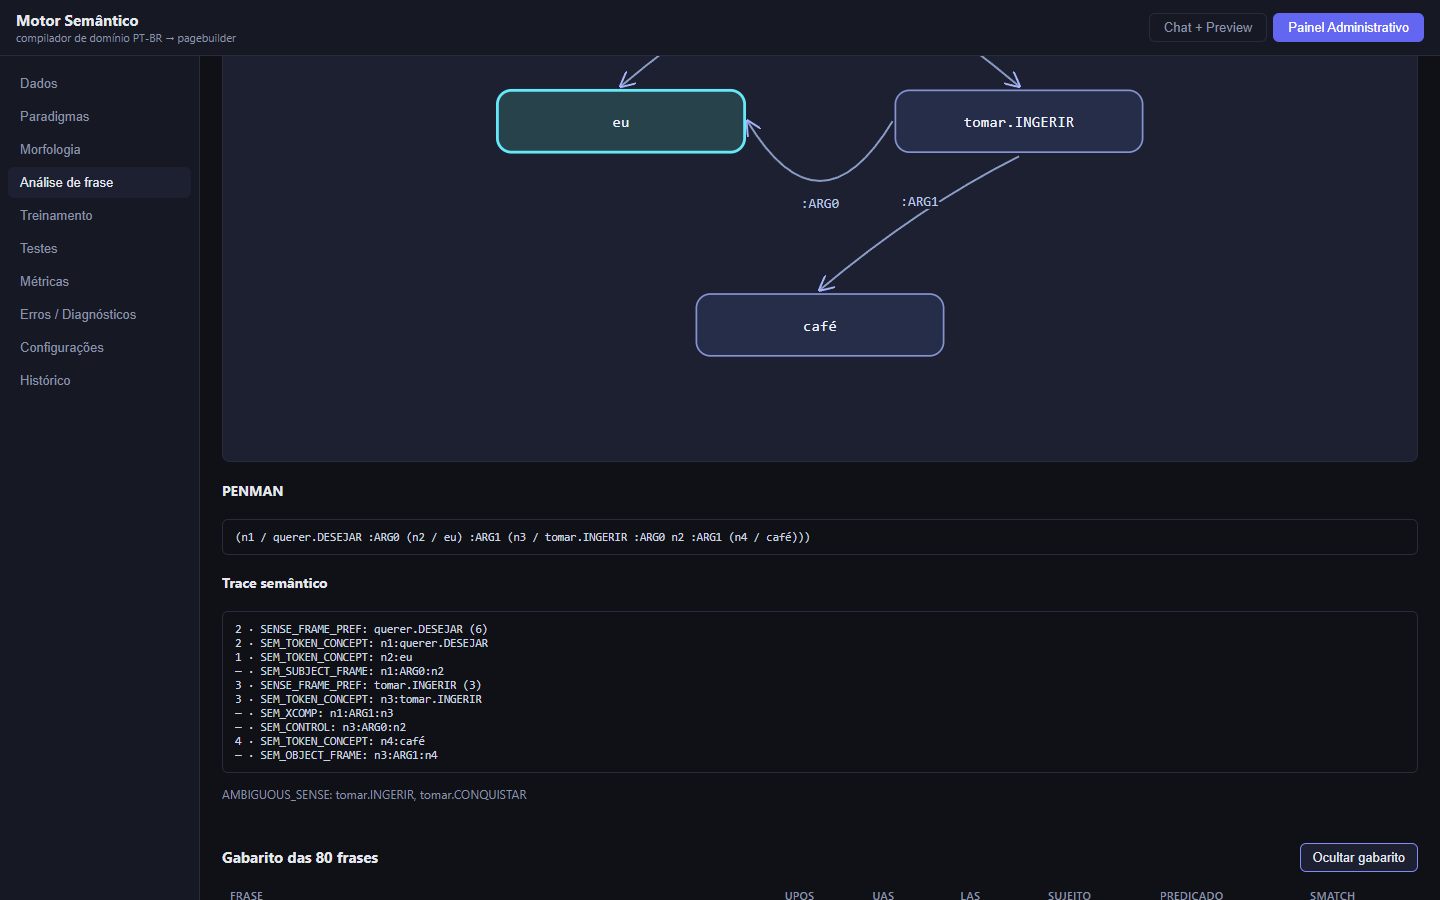
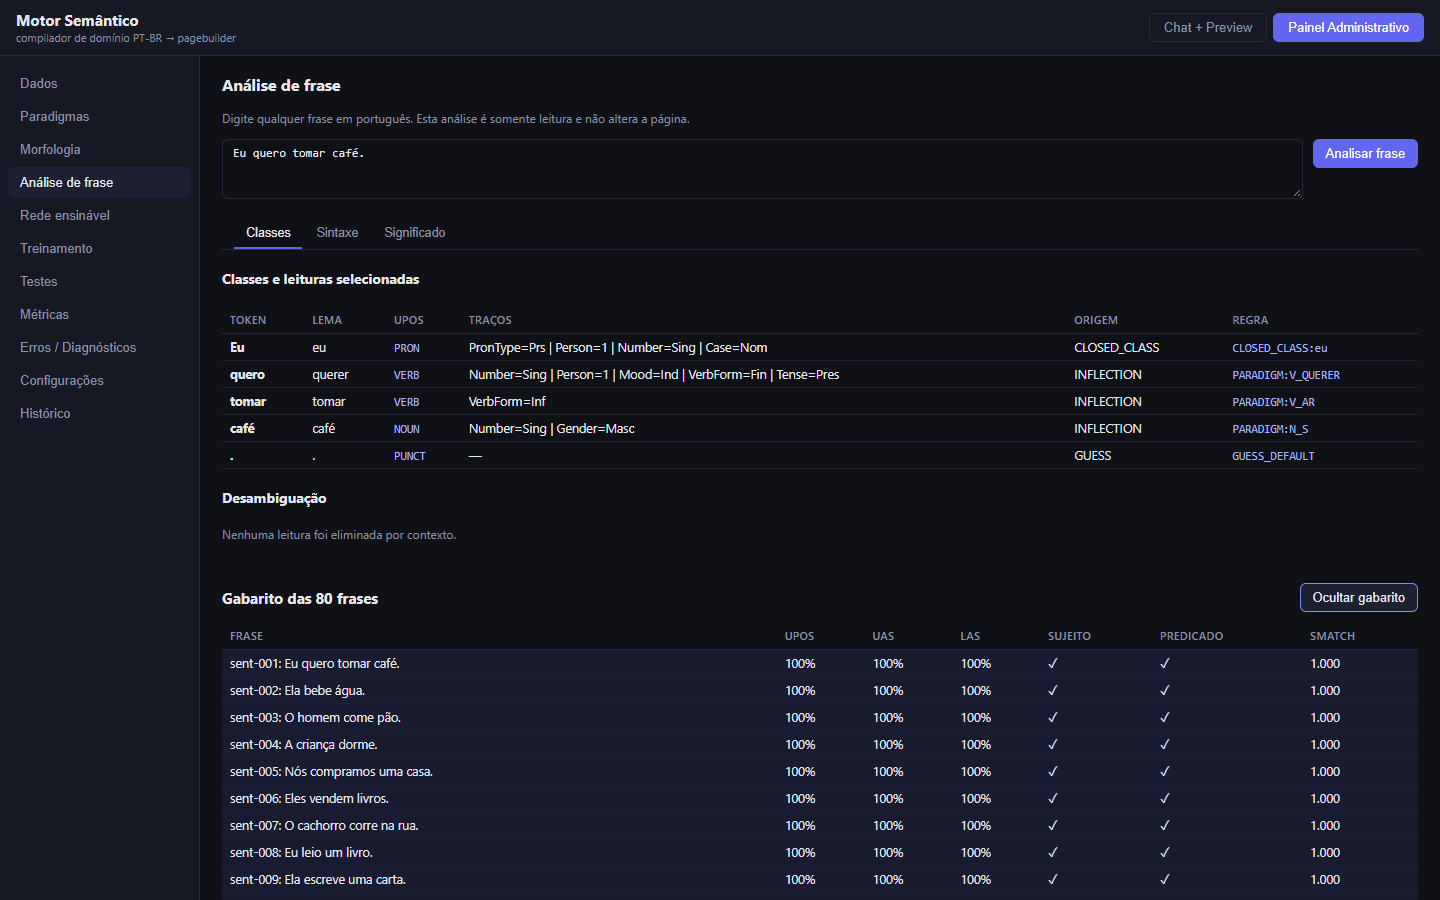
Consolida relatório e convenções UD verificadas

diff --git a/src/engine/language/DependencyParser.ts b/src/engine/language/DependencyParser.ts
@@ -142,7 +142,8 @@ export class DependencyParser {
         arcs[candidate].head === clause + 1 && arcs[candidate].deprel === 'mark' ||
         arcs[clause].deprel === 'acl:relcl' && feat(candidate, 'PronType') === 'Rel'
       );
-      const start = clause === root && comma >= 0 && root > comma ? comma + 1 : clause === root ? 0 : markerForClause >= 0 ? markerForClause + 1 : 0;
+      const initialSubordinate = comma > 0 && (pos(0) === 'SCONJ' || pos(0) === 'ADV');
+      const start = clause === root && initialSubordinate && root > comma ? comma + 1 : clause === root ? 0 : markerForClause >= 0 ? markerForClause + 1 : 0;
       const end = clause === root && comma < 0 ? words.length : clause === root ? words.length : Math.min(words.length, nearestRight(clause, (candidate) => pos(candidate) === 'PUNCT') + 1 || words.length);
       const before = [] as number[];
       for (let i = start; i < head; i++) {
@@ -150,8 +151,17 @@ export class DependencyParser {
         if (nearestLeft(i, (candidate) => pos(candidate) === 'ADP' && arcs[candidate].head === i + 1) >= 0) continue;
         before.push(i);
       }
+      const agreementHead = isFinite(head) ? head : copula ?? head;
+      const finiteFeats = words[agreementHead]?.selected.feats ?? {};
+      const agreement = (candidate: number): number => {
+        const candidateFeats = words[candidate].selected.feats;
+        const person = candidateFeats.Person ?? (nominals.has(pos(candidate)) ? '3' : undefined);
+        const number = candidateFeats.Number;
+        return (finiteFeats.Person && person ? (finiteFeats.Person === person ? 2 : -2) : 0) +
+          (finiteFeats.Number && number ? (finiteFeats.Number === number ? 1 : -1) : 0);
+      };
       const question = words.some((word) => word.form === '?');
-      const subject = before.length ? before[before.length - 1]
+      const subject = before.length ? [...before].sort((a, b) => agreement(b) - agreement(a) || b - a)[0]
         : question && clause === root ? nearestRight(head, (candidate) => candidate < end && nominals.has(pos(candidate)) && !assigned(candidate))
           : -1;
       if (subject !== undefined && subject >= 0 && subject < end && subject !== root) set(subject, head, 'nsubj', 'UD_NSUBJ_AGREEMENT');

diff --git a/src/engine/language/Tagger.ts b/src/engine/language/Tagger.ts
@@ -1,4 +1,5 @@
 import rulesData from '../../knowledge/language/pos-rules.json';
+import copulaData from '../../knowledge/language/copulas.json';
 import { LexicalAnalyzer, type LexicalReading } from './LexicalAnalyzer';
 
 interface Constraint {
@@ -17,7 +18,7 @@ interface Rule {
   id: string;
   action: 'SELECT' | 'REMOVE';
   form?: string;
-  target: { upos: string; feats?: Record<string, string> };
+  target: { upos: string; feats?: Record<string, string>; lemmaClass?: string };
   context: Constraint[];
   note: string;
   example: string;
@@ -41,9 +42,12 @@ export interface TaggingResult {
 }
 
 const rules = (rulesData as unknown as { rules: Rule[] }).rules;
+const copulas = new Set((copulaData as { lemmas: string[] }).lemmas);
 
-function readingMatches(reading: LexicalReading, target: { upos: string; feats?: Record<string, string> }): boolean {
-  return reading.upos === target.upos && Object.entries(target.feats ?? {}).every(([key, value]) => reading.feats[key] === value);
+function readingMatches(reading: LexicalReading, target: { upos: string; feats?: Record<string, string>; lemmaClass?: string }): boolean {
+  return reading.upos === target.upos &&
+    (!target.lemmaClass || target.lemmaClass === 'COPULA' && copulas.has(reading.lemma)) &&
+    Object.entries(target.feats ?? {}).every(([key, value]) => reading.feats[key] === value);
 }
 
 function contextMatches(words: TaggedWord[], index: number, condition: Constraint): boolean {

diff --git a/src/ui/components/SentenceAnalysisViews.tsx b/src/ui/components/SentenceAnalysisViews.tsx
@@ -5,6 +5,7 @@ export type SentenceView = 'classes' | 'syntax' | 'meaning';
 
 const modeLabel = { declarative: 'declarativa', interrogative: 'interrogativa', imperative: 'imperativa' };
 const polarityLabel = { positive: 'positiva', negative: 'negativa' };
+const diagnosticLabel: Record<string, string> = { AMBIGUOUS_SENSE: 'Sentido ambíguo', UNCERTAIN_FRAME: 'Moldura genérica, análise incerta' };
 
 interface Props {
   analysis: SentenceAnalysis;
@@ -139,7 +140,7 @@ export function SentenceAnalysisViews({ analysis, view }: Props) {
       <MeaningDiagram analysis={analysis} />
       <h4>PENMAN</h4><pre className="code-block">{analysis.meaningGraph.penman}</pre>
       <h4>Trace semântico</h4><pre className="code-block">{analysis.meaningGraph.trace.map((event) => `${event.token ?? '—'} · ${event.rule}: ${event.detail}`).join('\n')}</pre>
-      {analysis.meaningGraph.diagnostics.map((diagnostic, index) => <p key={index} className="note">{diagnostic.code}: {diagnostic.alternatives.join(', ')}</p>)}
+      {analysis.meaningGraph.diagnostics.map((diagnostic, index) => <p key={index} className="note">{diagnosticLabel[diagnostic.code] ?? diagnostic.code}: {diagnostic.alternatives.join(', ')}</p>)}
     </div>
   );
 }

diff --git a/src/engine/language/MeaningGraphBuilder.ts b/src/engine/language/MeaningGraphBuilder.ts
@@ -138,6 +138,7 @@ export class MeaningGraphBuilder {
         return { frame, score, order: seedOrder.indexOf(frame.id) >= 0 ? seedOrder.indexOf(frame.id) : order + seedOrder.length };
       }).sort((a, b) => b.score - a.score || a.order - b.order);
       if (scored.length > 1 && scored[0].score === scored[1].score) diagnostics.push({ code: 'AMBIGUOUS_SENSE', alternatives: scored.filter((item) => item.score === scored[0].score).map((item) => item.frame.id) });
+      if (scored[0].frame.defaultTemplate) diagnostics.push({ code: 'UNCERTAIN_FRAME', alternatives: [scored[0].frame.id] });
       trace.push({ rule: 'SENSE_FRAME_PREF', token: index + 1, detail: `${scored[0].frame.id} (${scored[0].score})` });
       return scored[0].frame;
     };

diff --git a/tests/language-tagger.test.ts b/tests/language-tagger.test.ts
@@ -33,6 +33,11 @@ function measure(tagger: LanguageTagger, sentences: Sentence[]) {
 describe('desambiguação de classe por regras', () => {
   const tagger = new LanguageTagger();
 
+  it('seleciona AUX para cópula e auxiliar diante de infinitivo', () => {
+    expect(tagger.tagForms(['A', 'casa', 'é', 'grande', '.']).words[2].selected.upos).toBe('AUX');
+    expect(tagger.tagForms(['Nós', 'vamos', 'viajar', '.']).words[1].selected.upos).toBe('AUX');
+  });
+
   it('atinge 97% de UPOS nas 80 frases do projeto', () => {
     const result = measure(tagger, goldSentences);
     console.info('UPOS gabarito', result.hits, '/', result.total, 'falhas:', result.failures.join(', '));

diff --git a/tests/language-dependencies.test.ts b/tests/language-dependencies.test.ts
@@ -63,6 +63,13 @@ describe('dependências UD e estrutura da oração', () => {
     }
   });
 
+  it('usa concordância para escolher sujeito em objeto anteposto', () => {
+    const sentence = 'Eu, a casa comprei.';
+    const analysis = new SemanticEngine(createInitialKnowledgeBase()).analyzeSentence(sentence);
+    expect(analysis.clause.subject).toEqual([1]);
+    expect(analysis.dependencies[3].deprel).toBe('obj');
+  });
+
   it('atinge UAS, LAS, sujeito e predicado no gabarito', () => {
     const m = measure((gold as { sentences: Sentence[] }).sentences);
     expect(m.uas).toBeGreaterThanOrEqual(0.90);

diff --git a/index.html b/index.html
@@ -3,6 +3,7 @@
   <head>
     <meta charset="UTF-8" />
     <meta name="viewport" content="width=device-width, initial-scale=1.0" />
+    <link rel="icon" type="image/svg+xml" href="/favicon.svg" />
     <title>Motor Semântico — Pagebuilder</title>
   </head>
   <body>

diff --git a/RELATORIO_SINTAXE.md b/RELATORIO_SINTAXE.md
@@ -1,0 +1,78 @@
+# Análise geral de frases do português
+
+## Estado da entrega
+
+Implementação na branch `codex/sintaxe-significado`, iniciada em `591733f` (`claude/morfologia-integrada`). A camada geral é somente leitura e não substitui o compilador de comandos do construtor. O exemplo **“Eu quero tomar café.”** produz `eu/PRON`, `quero/querer/VERB`, `tomar/tomar/VERB`, `café/café/NOUN`; sujeito `[1]`; núcleo do predicado `[2,3]`; predicado completo “quero tomar café”; e o mesmo nó `eu` em `:ARG0` de `querer.DESEJAR` e de `tomar.INGERIR`.
+
+Linha de base antes das edições: `npm test` → **30 arquivos, 413 testes aprovados**. A última verificação completa está documentada abaixo. Os commits `TEST-EXPECTATION` foram deliberadamente vermelhos, conforme a escolha do solicitante; os commits de implementação foram verificados em verde. Nenhum gabarito antigo foi alterado. As correções de expectativas novas estão justificadas em [CHANGES.md](research/morfologia/CHANGES.md).
+
+## Fontes e decisões
+
+| Fonte consultada | Decisão sustentada | Aplicação |
+|---|---|---|
+| [UD: classes UPOS](https://universaldependencies.org/u/pos/index.html), [traços](https://universaldependencies.org/u/feat/index.html) | Inventário `PRON`, `DET`, `ADP`, `AUX` etc. e traços como `Person`, `Number`, `Mood`, `VerbForm`. | `closed-class.json`, `LanguageInflector.ts`, `LexicalAnalyzer.ts`, `Tagger.ts`. |
+| [UD: relações](https://universaldependencies.org/u/dep/index.html), [cópula](https://universaldependencies.org/u/dep/cop.html), [xcomp](https://universaldependencies.org/u/dep/xcomp.html), [ccomp](https://universaldependencies.org/u/dep/ccomp.html), [nsubj](https://universaldependencies.org/u/dep/nsubj.html), [case](https://universaldependencies.org/u/dep/case.html) | Predicativo como raiz de oração copular; `xcomp` com controle obrigatório; complemento com sujeito próprio como `ccomp`; preposição dependente do nome. | `DependencyParser.ts`, `ClauseAnalyzer.ts`. Cópulas e auxiliares em contexto recebem `AUX`, embora o gabarito local os chame de `VERB`. |
+| [CoNLL-U](https://universaldependencies.org/format.html), [UD português](https://universaldependencies.org/pt/index.html), [Bosque](https://universaldependencies.org/treebanks/pt_bosque/), [PUD](https://universaldependencies.org/treebanks/pt_pud/) | Dez colunas e linha de faixa para contração; convenções portuguesas de artigos, contrações e clíticos. A forma feminina do artigo tem lema `o` no [Bosque](https://universaldependencies.org/treebanks/pt_bosque/pt_bosque-pos-DET.html). | `Tokenizer.ts`, `Conllu.ts`, `closed-class.json`, `contractions.json`. Bosque e PUD foram consultados, não copiados. |
+| [Manual CG-3](https://edu.visl.dk/cg3/chunked/), [tutorial CG-3](https://edu.visl.dk/cg3_howto.pdf) | Coortes com múltiplas leituras e regras contextuais ordenadas `SELECT`/`REMOVE`. | `Tagger.ts`, `pos-rules.json`; cada remoção registra o ID da regra. |
+| [Diretrizes AMR](https://github.com/amrisi/amr-guidelines/blob/master/amr.md), [AMR-PT](https://aclanthology.org/W19-4028/) | Papéis `ARG*`, controle como reentrância, polaridade, perguntas e adaptação de conceitos ao português. | `MeaningGraphBuilder.ts`, `adjunct-roles.json`, `implicit-pronouns.json`. |
+| [Smatch](https://pypi.org/project/smatch/1.0.2/), [avaliação amrlib](https://amrlib.readthedocs.io/en/latest/evaluation/) | F1 de triplas de instância, relação e atributo com mapeamento de variáveis. | `graphMatch.ts` usa busca exata e determinística; não usa subida de encosta aleatória. |
+| [PropBank-Br](https://aclanthology.org/L12-1114/), [VerbNet.Br](https://aclanthology.org/W11-4503/) | Referência conceitual para papéis e molduras verbais. | Os papéis são lidos apenas das molduras próprias do projeto; nenhum dado dessas bases foi importado. |
+| [Alomorfia em adjetivos `-vel`](https://www.scielo.br/j/alfa/a/KBB8JSXYhkf3Wb6sXcbG9XJ/), [formação de palavras](https://www.scielo.br/j/delta/a/7TDJXwhYDpNRkXLYWhvnbnB/) | Alternâncias de radical e derivação por regras, com a ressalva de que certas ligações são históricas e não produtivas no português sincrônico. | `stem-rules.json` separa radical do sufixo. As alternâncias específicas além de `vis-` vieram dos exemplos fornecidos pelo solicitante e ainda pedem verificação etimológica individual. |
+
+## Arquitetura e comportamento
+
+`SemanticEngine.analyzeSentence(text)` monta `Tokenizer → LexicalAnalyzer → Tagger → DependencyParser → ClauseAnalyzer → MeaningGraphBuilder`. A saída inclui leituras alternativas, escolha, traços, origem, regra, árvore UD, sujeito, dois recortes do predicado, modo, polaridade, CoNLL-U, nós/arestas, PENMAN e trace. O método não executa nem altera o documento. `DomainParser` não foi reescrito.
+
+O parser usa **montagem determinística por padrões**: seleciona núcleo verbal ou predicativo, associa determinantes, casos, coordenação e orações, depois sujeitos, objetos e adjuntos. A escolha do sujeito combina posição com concordância de pessoa e número; um teste com objeto anteposto (“Eu, a casa comprei.”) verifica que o verbo de 1ª pessoa seleciona “Eu”. A relação é registrada com o ID da regra que criou o arco. Molduras do projeto orientam os papéis semânticos; molduras `defaultTemplate` geram diagnóstico de incerteza. Essa escolha é compatível com as relações da UD citadas acima, embora construções ambíguas mais longas continuem abertas.
+
+Definição operacional observada no gabarito: **predicado (núcleo)** é o verbo finito principal e sua cadeia `xcomp` ou verbo coordenado; em oração copular, é a cópula finita, embora o predicativo seja a raiz UD. Exemplo: `sent-001` usa `[2,3]` e `sent-021` usa `[3]`. **Predicado completo** é a subárvore da raiz sem a subárvore do sujeito e sem pontuação.
+
+Os dados de classes fechadas, contrações, regras CG, alternâncias e papéis ficam em JSON. `src/` não contém dicionário, treebank nem molduras externas. Os 24 paradigmas propostos e 31 verbos irregulares copiados para `src/knowledge/language/` já pertenciam a `research/morfologia/` deste projeto. A base ensinável usa formato de dados **v3**: uma raiz nova traz paradigma, regra de atribuição, glosa, tipo e moldura copiada de um modelo do próprio projeto.
+
+## Números medidos
+
+As 80 frases do gabarito contêm 431 tokens para UPOS e dependências; as 20 extras, 78. A métrica lexical exclui pontuação (348 e 58 tokens). Os traços são medidos onde foram anotados (294 e 58 tokens).
+
+| Métrica | Gabarito (80) | Extras (20) |
+|---|---:|---:|
+| Lema entre as candidatas | 348/348 (100%) | 58/58 (100%) |
+| Traços entre as candidatas | 293/294 (99,66%) | 58/58 (100%) |
+| Lema **e** traços na mesma leitura | 347/348 (99,71%) | 58/58 (100%) |
+| UPOS selecionado | 419/431 (97,22%) | 77/78 (98,72%) |
+| UAS | 431/431 (100%) | 78/78 (100%) |
+| LAS | 431/431 (100%) | 78/78 (100%) |
+| Sujeito exato | 80/80 (100%) | 20/20 (100%) |
+| Predicado núcleo exato | 80/80 (100%) | 20/20 (100%) |
+| Smatch F1 médio | 0,9401 | 0,9029 |
+| Grafo exato (F1 = 1) | 62/80 (77,5%) | 12/20 (60%) |
+| Sentido esperado presente | 74/80 (92,5%) | 19/20 (95%) |
+
+Fase 1: os três casos de ruído, as dez palavras de radical latino fora dos dados e os dois comandos de domínio passaram. Fase 2: 40 formas de classe fechada, seis contrações e os demais casos somam 49 testes aprovados. Fase 3: **258/258** casos de flexão. Fase 4: os limiares de UPOS foram atingidos. Fase 5: os limiares de UAS, LAS, sujeito e predicado foram atingidos. Fase 6: os três limiares de grafo foram atingidos **no gabarito**; nas extras, grafos exatos ficaram em 60%, sem limiar exigido nessa fase. Fase 8: `surfar` gerou 53 formas e 11 hipóteses derivacionais na vista de rede; `surfista` aparece como `AGENT_OF(surfar)`.
+
+## Falhas restantes e causas
+
+- **Classe:** 12 tokens do gabarito (`sent-015`, `020`–`023`, `030`, `041`, `067`–`069`, `072`, `080`) e um das extras (`extra-019`) divergem porque a implementação marca cópula ou auxiliar como `AUX` conforme UD, enquanto os dados locais registram `VERB`. A árvore e o grafo desses casos continuam sendo avaliados. Não alterei o gabarito para aumentar a métrica.
+- **Traços:** em `sent-079`, “ajuda” não tem, entre as leituras lexicais, a combinação `Mood=Imp|Person=3` do gabarito; o paradigma regular oferece 3ª pessoa do indicativo e 2ª do imperativo. O modo imperativo da oração é inferido estruturalmente.
+- **Dependências, sujeito e predicado:** nenhuma divergência nos 80 casos e nas 20 extras medidos. Esse resultado não demonstra cobertura de todas as construções do português.
+- **Grafo no gabarito, 18 não exatos:** `sent-034`, `035`, `050`, `052`, `057`, `060`–`062`, `064`–`069`, `073`–`075`, `077`. Seis têm sentido diferente (`034`, `035`, `050`, `061`, `064`, `073`). Causas principais: seleção entre sentidos ainda ambíguos (`ficar`, `chegar`, `achar`); nome próprio composto “São Paulo” dividido; moldura de `ter.CONTER` divergente dos papéis do gabarito; adjuntos temporais compostos, quantificação implícita e correferência em relativas ainda incompletos. As notas por frase e o diff estão no painel administrativo.
+- **Grafo nas extras, oito não exatos:** `extra-001`, `002`, `005`, `010`, `013`–`015`, `018`. Parte da diferença vem de grafos extras redigidos com forma plural de superfície onde o motor usa lema. `extra-005` usa `dançar.DANÇAR` na anotação extra, enquanto a raiz do projeto identifica o sentido como `dançar.DANCAR`; o contador de sentido registra a divergência. Mantive a anotação para não ajustar o conjunto depois de ver a saída.
+- **Persistência sob cota:** o navegador usado no teste já tinha snapshots completos próximos do limite do `localStorage`. Ao ensinar a raiz, o histórico completo excedeu a cota. A base v3 salva as raízes em um registro pequeno adicional e as restaura após recarga; a interface informa quando o histórico completo não coube. Os snapshots antigos não foram apagados. A persistência do **novo snapshot completo** continua limitada pela cota do navegador.
+- **Generalização ainda aberta:** molduras genéricas (`defaultTemplate`) são marcadas como incertas; nomes próprios com várias palavras, construções elípticas e alguns tipos de coordenação e relativa ainda podem falhar em frases novas. A busca exata de Smatch cresce combinatoriamente para grafos grandes.
+
+## Interface e capturas
+
+No Chrome local, `http://127.0.0.1:5173/`, foram verificados: chat → “Eu quero tomar café.” → Classes/Sintaxe/Significado; painel → texto livre; lista de 80 frases com métricas e diff; cinco frases do gabarito e cinco frases novas; ensino de `surfar`, análise de “Nós surfamos ontem.” e restauração após recarga. A vista móvel foi ajustada após uma captura revelar a navegação lateral larga. O primeiro carregamento expôs um favicon ausente (404); foi adicionado `public/favicon.svg`. Na sessão limpa final, o ícone respondeu `200` e não houve erros ou avisos no console. O plugin Browser não estava disponível; foi usado Playwright já presente no ambiente com Chrome local, sem instalação.
+
+![Classes no painel](research/morfologia/capturas/analise-classes.png)
+![Árvore UD e CoNLL-U](research/morfologia/capturas/analise-sintaxe.png)
+![Grafo e reentrância](research/morfologia/capturas/analise-significado.png)
+![Comparação do gabarito](research/morfologia/capturas/gabarito.png)
+![Vista móvel](research/morfologia/capturas/mobile-classes.png)
+![Rede ensinada](research/morfologia/capturas/rede-surfar.png)
+![Frase com raiz ensinada](research/morfologia/capturas/surfar-frase.png)
+
+## Verificação final
+
+Saída final observada após o relatório, o ajuste de `AUX` e a correção de concordância: `npm test` → **38 arquivos aprovados, 509 testes aprovados (509)**, sem falhas; `npx tsc --noEmit` → código de saída `0`; `npm run build` → código de saída `0`, 124 módulos transformados, bundle principal de 1.208,16 kB; `git diff --check` → código de saída `0`. O Vite emitiu aviso de chunk acima de 500 kB; o limite não foi afrouxado.
+
+Comandos do construtor preservados, exceto a recuperação derivacional avaliativa solicitada (`DERIVED_MATCH`); a suíte antiga de 413 testes permaneceu verde. Não houve instalação de dependências de runtime, uso de rede em tempo de execução, `eval`, `new Function` ou aleatoriedade na camada nova.
